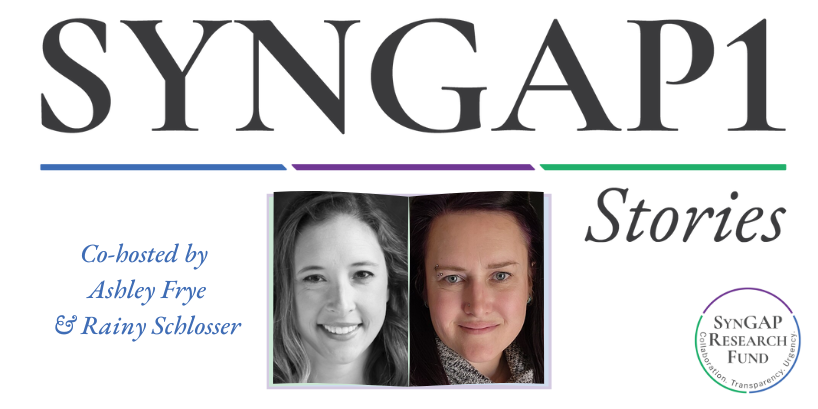
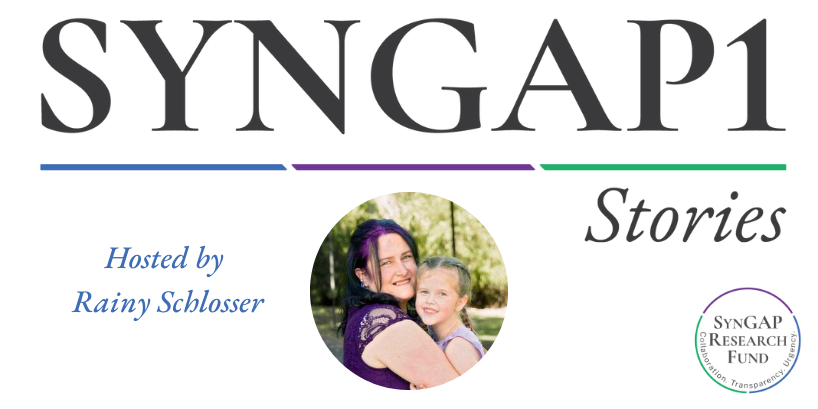
Update Syngap Stories podcast landing page to remove Ashley.

Changed region(s): [[0.0611, 0.4694, 0.6724, 0.9682]]

diff --git a/taxonomy-srf-podcasts-category-syngap1-stories.php b/taxonomy-srf-podcasts-category-syngap1-stories.php
@@ -25,10 +25,10 @@ get_header();
 		<h1 class="entry-title mb-4 text-4xl lg:text-5xl text-gray-600 font-extrabold"><?php echo esc_html( $current_term->name ); ?></h1>
 		<div class="mx-auto w-2/3 h-1 bg-gradient-to-r from-blue-400 to-purple-400 rounded transform translate-y-2"></div>
 	</header>
-	
+
 	<div class="prose lg:prose-xl mx-auto mb-10">
 		<img src="<?php echo esc_url( get_theme_file_uri( 'assets/images/SYNGAP1-Stories.png' ) ); ?>" alt="Syngap1 Stories" />
-		<p class="text-2xl xl:text-3xl">Stories shared by families about their lives raising Syngapians, co-hosted by <a class="underline" href="<?php echo esc_url( home_url( '/team/volunteers/ashley-frye-mba/' ) ); ?>">Ashley Frye</a> and <a class="underline" href="<?php echo esc_url( home_url( '/team/volunteers/rainy-schlosser/' ) ); ?>">Rainy Schlosser</a>.</p>
+		<p class="text-2xl xl:text-3xl">Stories shared by families about their lives raising Syngapians, co-hosted by <a class="underline" href="<?php echo esc_url( home_url( '/team/volunteers/rainy-schlosser/' ) ); ?>">Rainy Schlosser</a>.</p>
 	</div>
 
 	<div class="max-w-6xl mx-auto mb-10 space-y-5 text-center">
